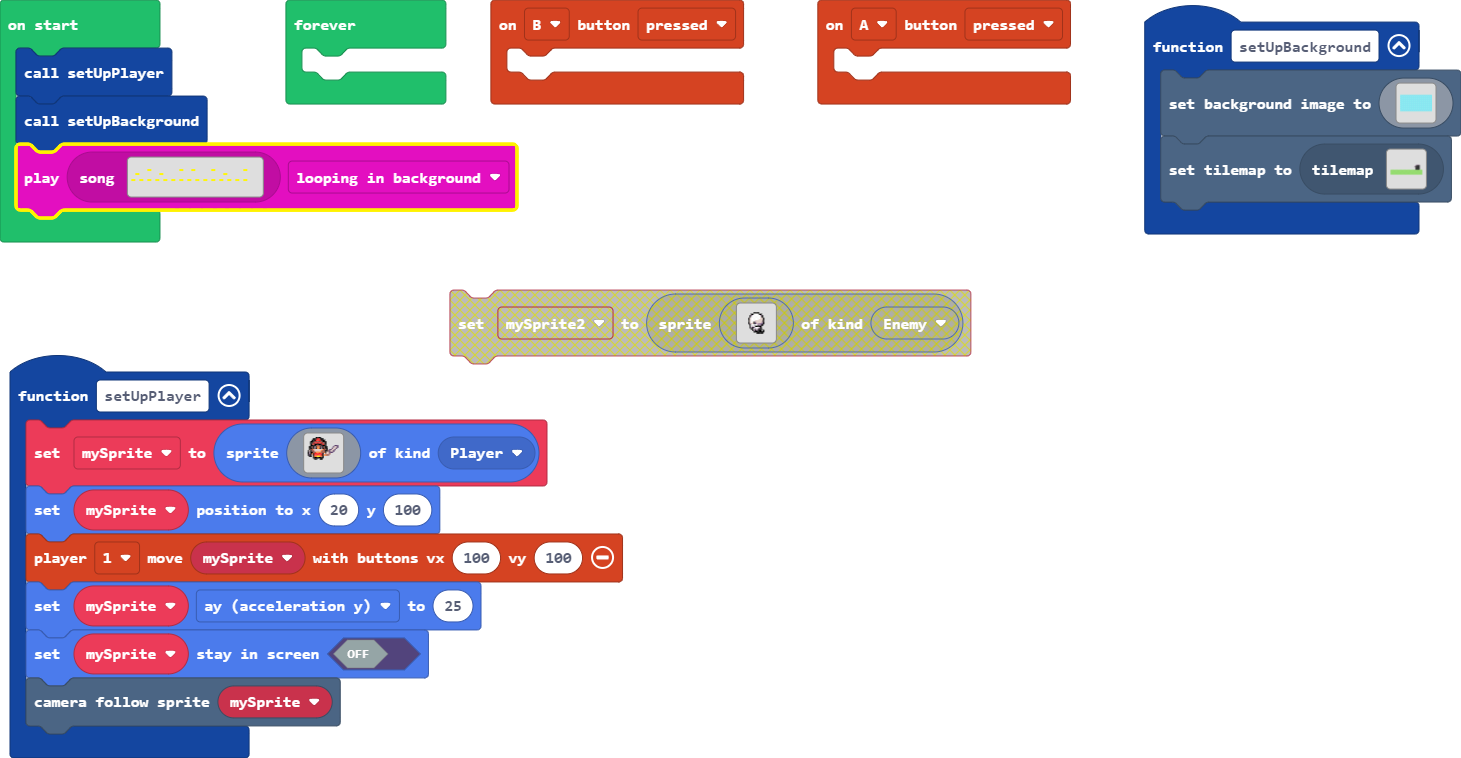
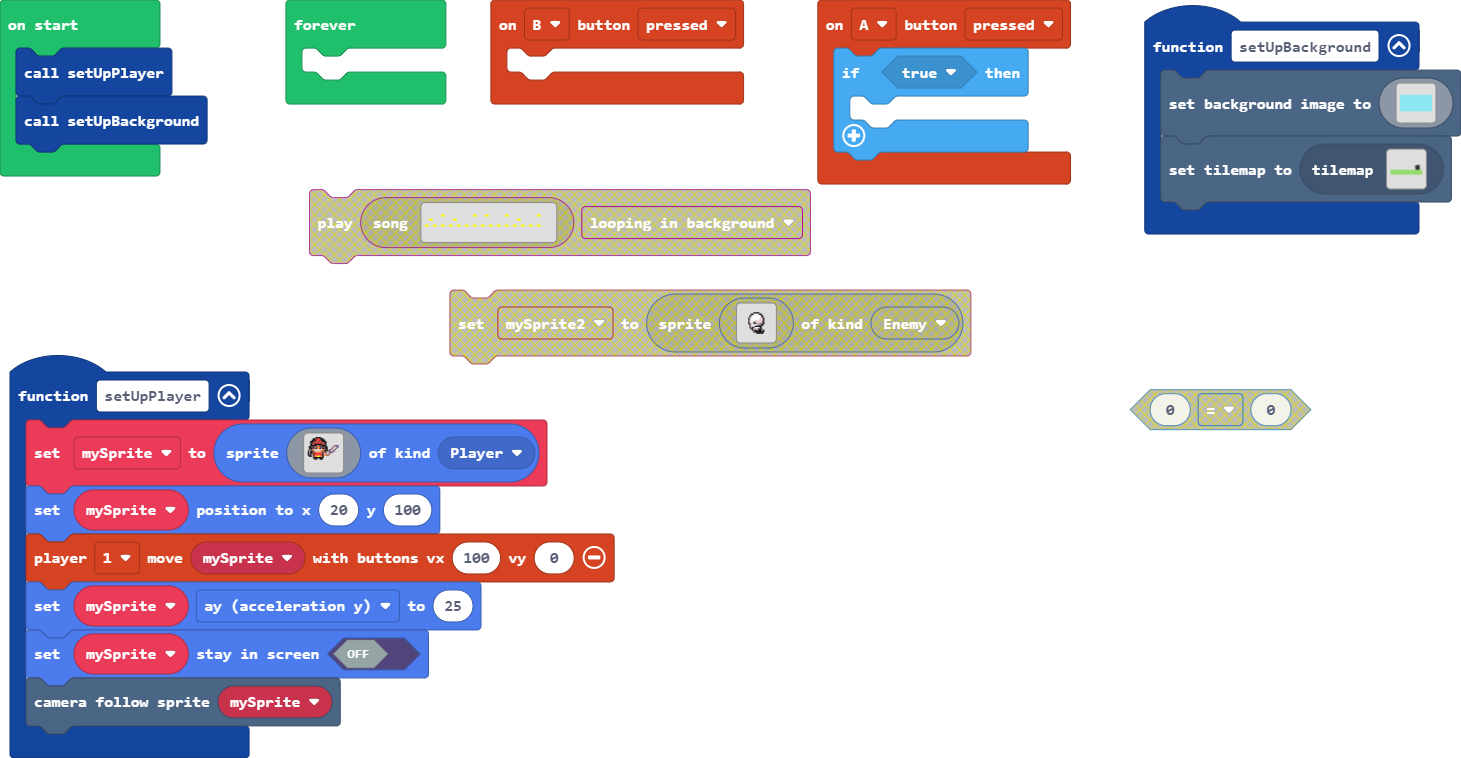
You did this

diff --git a/main.ts b/main.ts
@@ -2,7 +2,9 @@ controller.B.onEvent(ControllerButtonEvent.Pressed, function () {
 	
 })
 controller.A.onEvent(ControllerButtonEvent.Pressed, function () {
-	
+    if (true) {
+    	
+    }
 })
 function setUpBackground () {
     scene.setBackgroundImage(img`
@@ -237,7 +239,7 @@ function setUpPlayer () {
         ........................
         `, SpriteKind.Player)
     mySprite.setPosition(20, 100)
-    controller.player1.moveSprite(mySprite, 100, 100)
+    controller.player1.moveSprite(mySprite, 100, 0)
     mySprite.ay = 25
     mySprite.setStayInScreen(false)
     scene.cameraFollowSprite(mySprite)
@@ -245,7 +247,6 @@ function setUpPlayer () {
 let mySprite: Sprite = null
 setUpPlayer()
 setUpBackground()
[1 lines of base64/hex data omitted]
 forever(function () {
 	
 })
